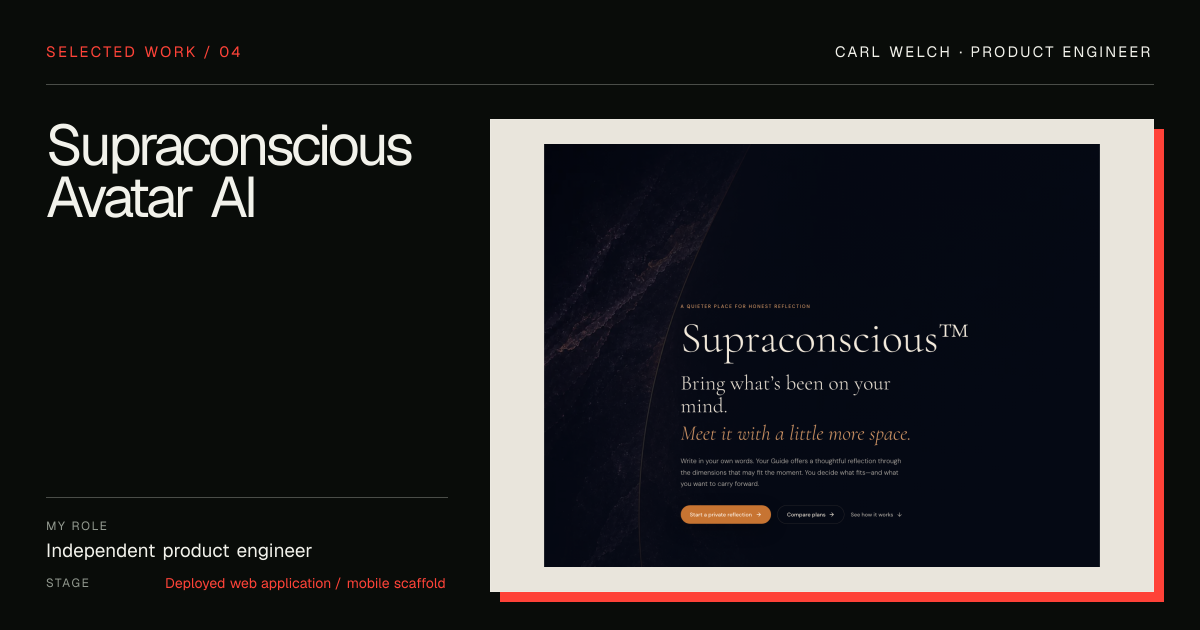
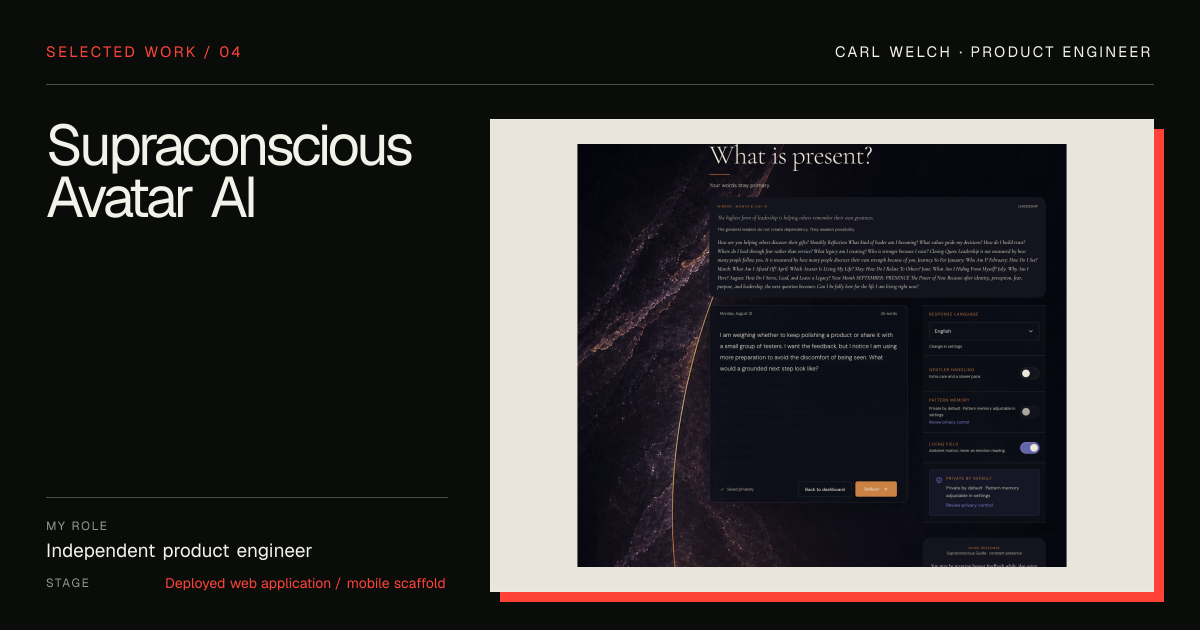
PORT-MEDIA-001 show Supraconscious internal product

Changed region(s): [[0.4317, 0.2111, 0.925, 0.9048], [0.5242, 0.3619, 0.555, 0.3921]]

diff --git a/site/app/portfolio-data.ts b/site/app/portfolio-data.ts
@@ -545,41 +545,41 @@ export const projects: PortfolioProject[] = [
     role: 'Independent product engineer',
     scope: 'Product strategy, AI system design, and full-stack implementation',
     image: {
-      src: '/projects/supraconscious-avatar-ai/current-landing.png',
-      alt: 'Current Supraconscious landing experience with a dark mineral background, editorial typography, and private reflection entry points',
-      width: 1440,
-      height: 1096,
+      src: '/projects/supraconscious-avatar-ai/internal-journal.png',
+      alt: 'Authenticated Supraconscious journal workspace with a private reflection draft, response preferences, and Guide response',
+      width: 1531,
+      height: 1324,
     },
-    galleryTitle: 'The redesigned public product experience',
+    galleryTitle: 'Inside the governed reflection product',
     gallerySummary:
-      'The current public experience explains the reflection model, keeps authorship with the user, presents the plan structure without pressure, and carries the same editorial system onto a phone.',
+      'The authenticated product carries a reflection from private writing into a grounded Guide response, saved history, an explicit seven-dimension model, and user-controlled privacy and security settings.',
     gallery: [
       {
-        src: '/projects/supraconscious-avatar-ai/reflection-method.png',
-        alt: 'Supraconscious reflection method explaining user words, a tentative generated perspective, and a user-authored action',
-        width: 1440,
-        height: 884,
-        label: 'Reflection method',
-        caption: 'The public explanation makes the authorship boundary visible: the user brings the words, the Guide offers a tentative perspective, and the user chooses what to carry forward.',
+        src: '/projects/supraconscious-avatar-ai/internal-history.png',
+        alt: 'Authenticated Supraconscious history dashboard with a recent reflection, entry count, pattern count, and saved session',
+        width: 1531,
+        height: 1324,
+        label: 'Reflection history',
+        caption: 'The private dashboard makes continuity legible without turning reflection into a score: entries, active patterns, the latest Guide response, and saved sessions stay visible together.',
         layout: 'wide',
       },
       {
-        src: '/projects/supraconscious-avatar-ai/plans-and-access.png',
-        alt: 'Supraconscious plan comparison showing free, starter, and pro reflection options',
-        width: 1440,
-        height: 809,
-        label: 'Plans and access',
-        caption: 'The plan section presents a free starting point and two paid continuity options in the same restrained product language.',
+        src: '/projects/supraconscious-avatar-ai/internal-guide.png',
+        alt: 'Authenticated Supraconscious Guide page showing the constant Guide and seven equal reflection dimensions',
+        width: 1531,
+        height: 1324,
+        label: 'Constant Guide',
+        caption: 'The Guide stays consistent while the seven dimensions remain equal, explicit, and selectively applied to each reflection instead of becoming hidden personas or a ranked progression.',
         layout: 'wide',
       },
       {
-        src: '/projects/supraconscious-avatar-ai/mobile-landing.png',
-        alt: 'Current Supraconscious mobile landing experience with language selection and reflection entry controls',
-        width: 390,
-        height: 844,
-        label: 'Mobile entry',
-        caption: 'The phone layout preserves the editorial hierarchy, language control, and primary reflection action without reducing the experience to a generic app shell.',
-        layout: 'portrait',
+        src: '/projects/supraconscious-avatar-ai/internal-settings.png',
+        alt: 'Authenticated Supraconscious privacy and preferences page with data-use disclosure, language, passkeys, tone, intensity, and pattern-memory controls',
+        width: 1531,
+        height: 1324,
+        label: 'Privacy and preferences',
+        caption: 'Privacy is a product surface: the account explains processing, supports passkeys, keeps pattern memory opt-in, and exposes the Guide tone and reflection intensity as user-controlled settings.',
+        layout: 'wide',
       },
     ],
     story: {

diff --git a/site/tests/browser/public-portfolio.spec.ts b/site/tests/browser/public-portfolio.spec.ts
@@ -515,14 +515,14 @@ for (const [route, expectedGalleryImages] of [
   });
 }
 
-test('Supraconscious case study uses the current public product screenshots', async ({ page }) => {
+test('Supraconscious case study uses authenticated internal product screenshots', async ({ page }) => {
   await page.goto('/work/supraconscious-avatar-ai#project-gallery');
 
-  await expect(page.locator('.project-detail-image img')).toHaveAttribute('src', /current-landing/);
-  await expect(page.locator('#project-gallery img[src*="reflection-method"]')).toHaveCount(1);
-  await expect(page.locator('#project-gallery img[src*="plans-and-access"]')).toHaveCount(1);
-  await expect(page.locator('#project-gallery img[src*="mobile-landing"]')).toHaveCount(1);
-  await expect(page.locator('img[src*="journal-workspace"], img[src*="privacy-settings"], img[src*="pricing-page"]')).toHaveCount(0);
+  await expect(page.locator('.project-detail-image img')).toHaveAttribute('src', /internal-journal/);
+  await expect(page.locator('#project-gallery img[src*="internal-history"]')).toHaveCount(1);
+  await expect(page.locator('#project-gallery img[src*="internal-guide"]')).toHaveCount(1);
+  await expect(page.locator('#project-gallery img[src*="internal-settings"]')).toHaveCount(1);
+  await expect(page.locator('#project-gallery')).toContainText('Inside the governed reflection product');
 });
 
 test('project media viewer supports full-size keyboard inspection on mobile', async ({ page }) => {
